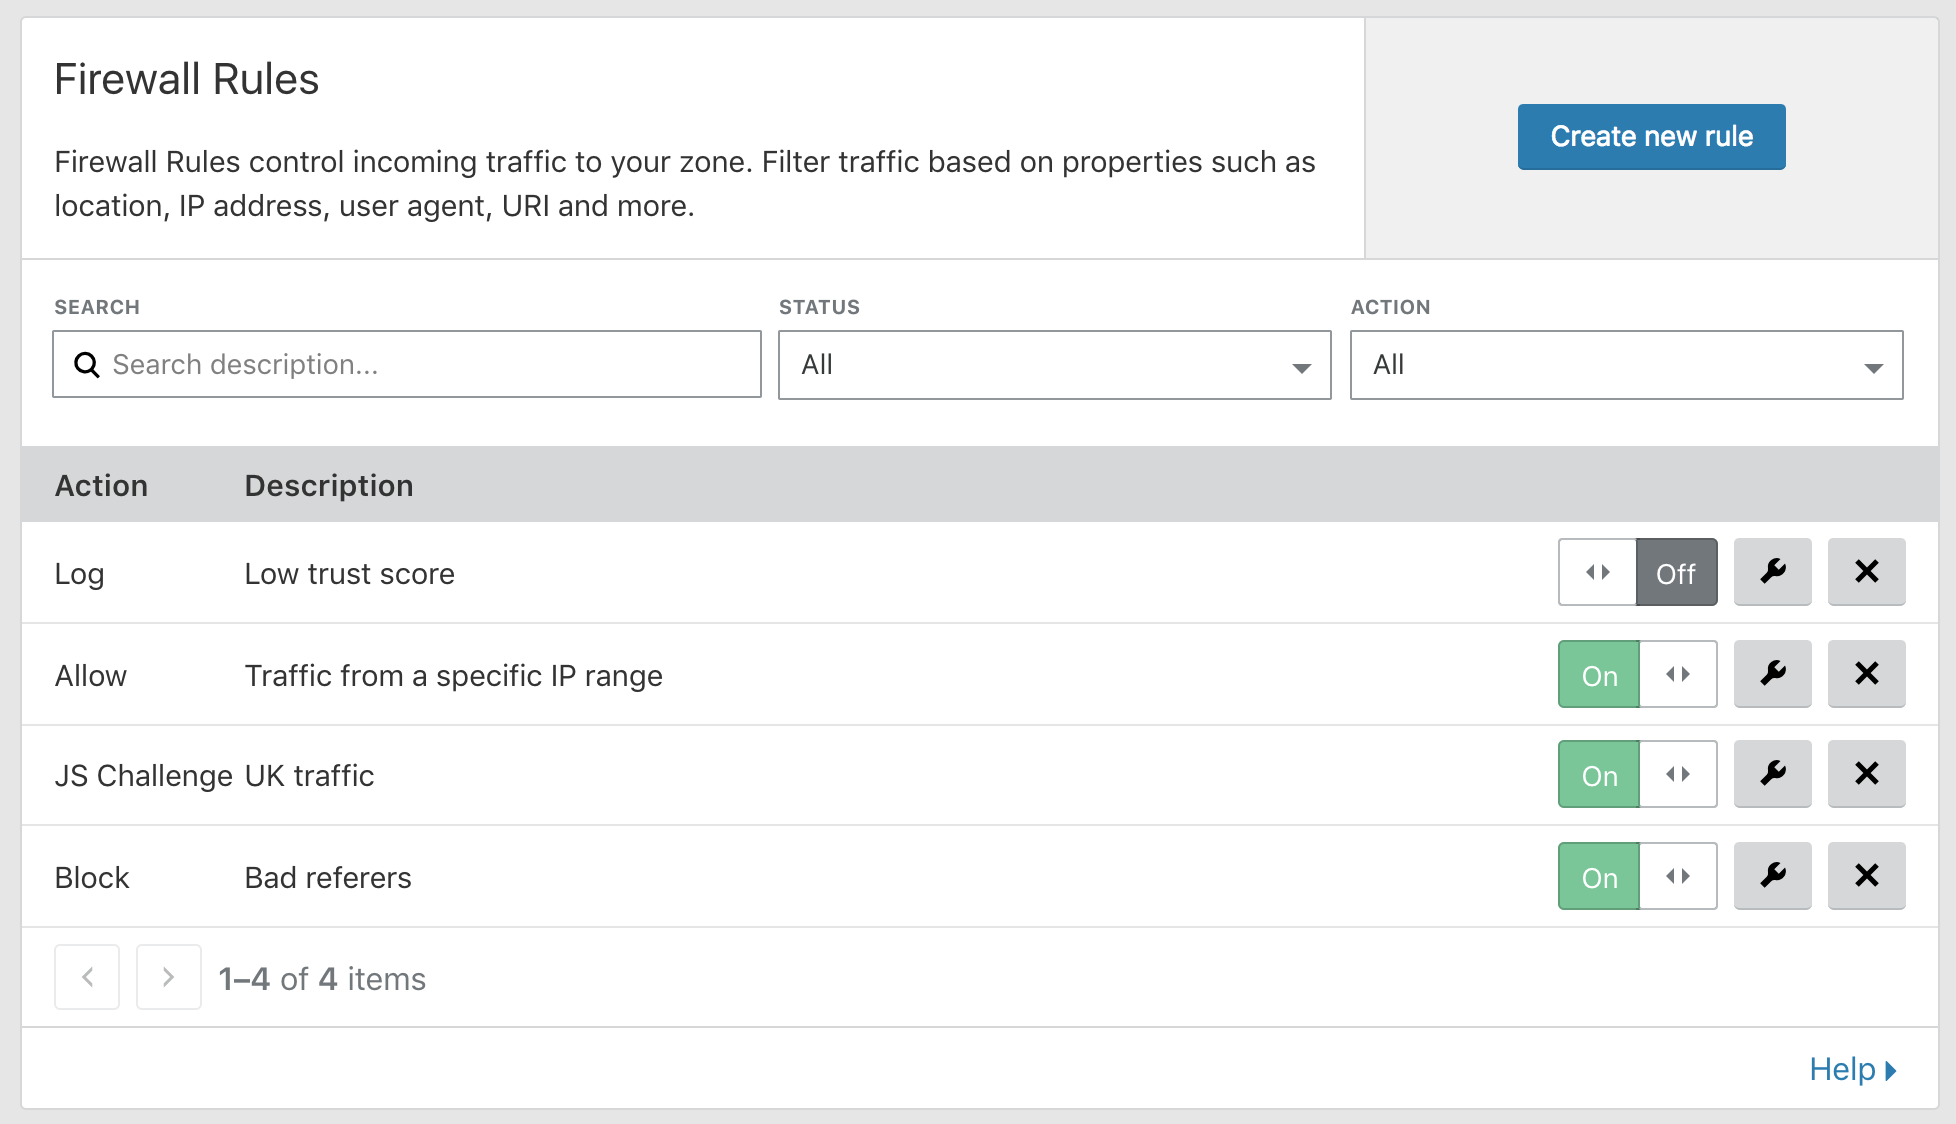
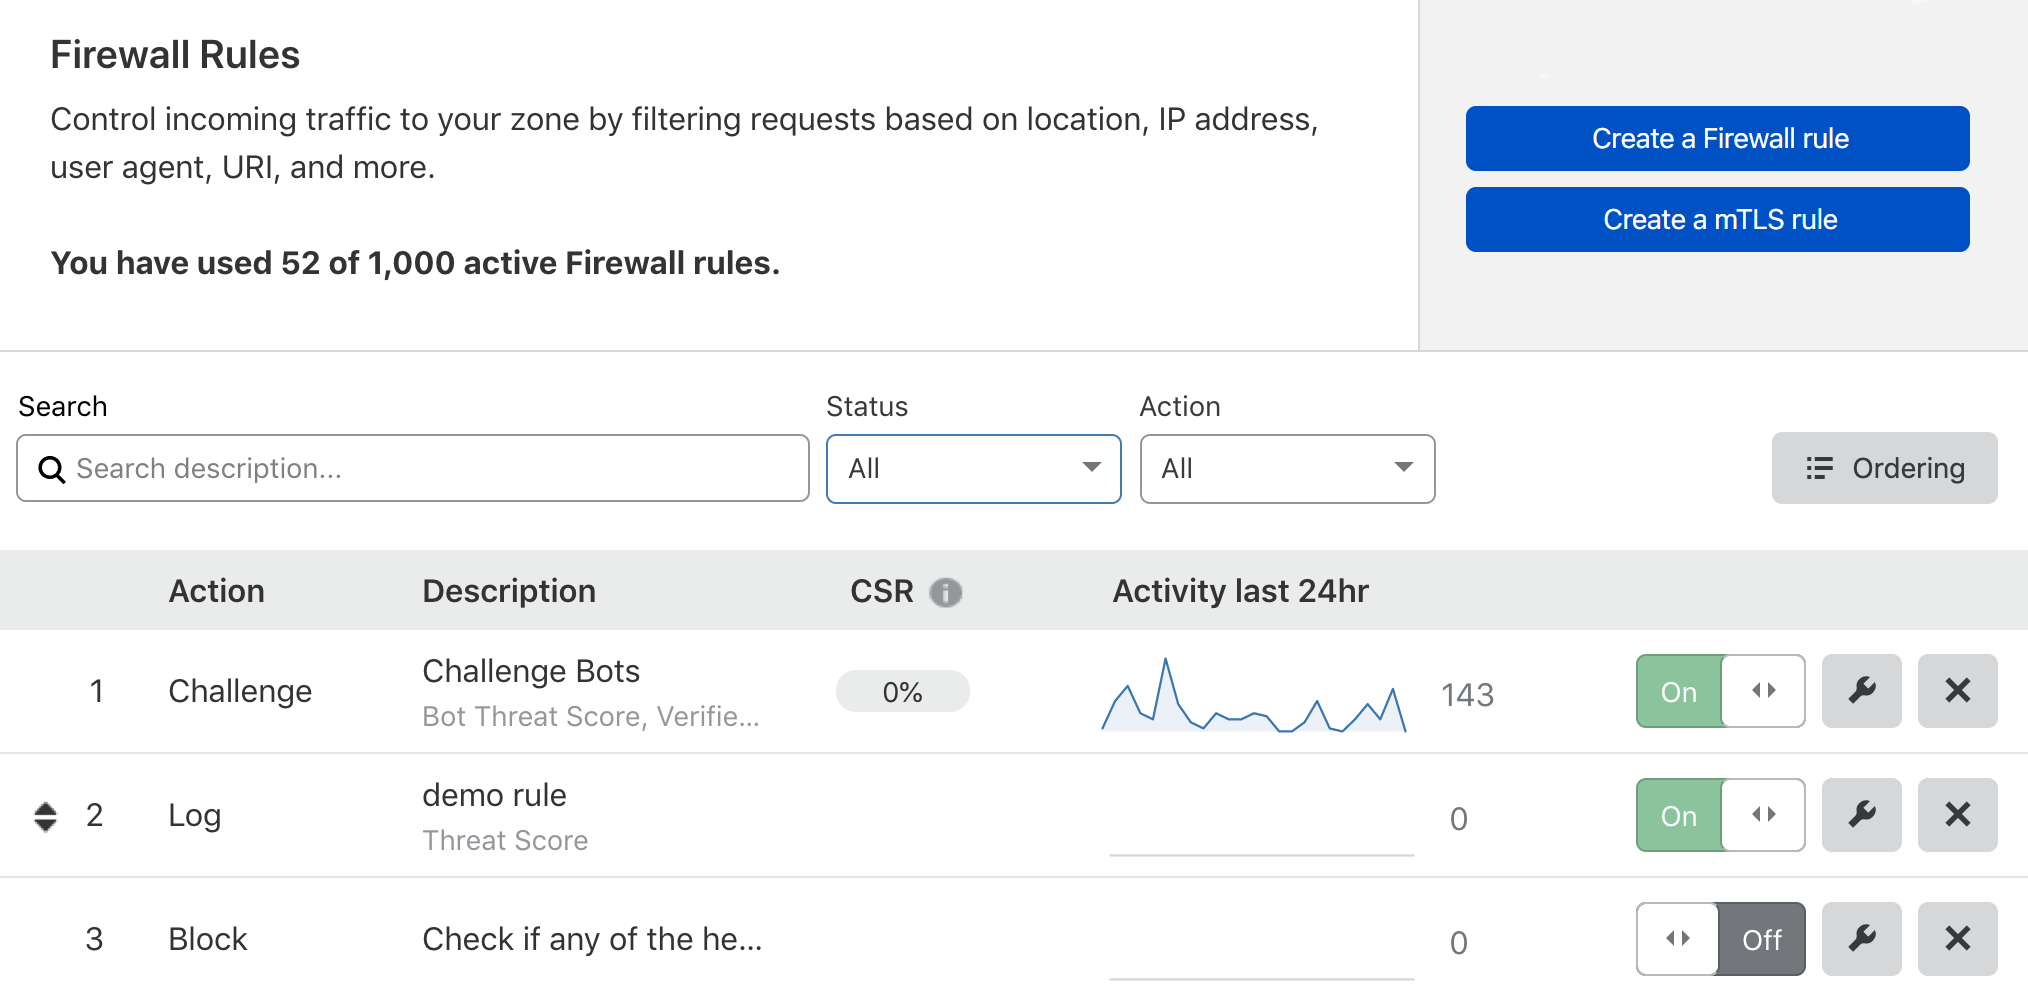
Add section on Challenge Solve Rate (CSR) (#1416)

diff --git a/products/firewall/src/content/cf-firewall-rules/index.md b/products/firewall/src/content/cf-firewall-rules/index.md
@@ -28,19 +28,36 @@ You can also manage Firewall Rules through Terraform. For more, see [_Getting St
 
 The **Rules List** gives you a snapshot of recent activity and allows you to manage firewall rules in a single convenient location (see image below).
 
-![Firewall Rules tab](../images/firewall-rules-introduction-1.png)
+![Firewall Rules tab](../images/cf-firewall-rules-panel.png)
+
+#### Challenge Solve Rate (CSR)
+
+The **Rules List** displays each rule's **CSR** (Challenge Solve Rate), which is the percentage of issued challenges that were solved. This metric applies to rules configured with _Challenge (Captcha)_ or _JS Challenge_ actions, and it is calculated as follows:
+
+<p><var>CSR</var> = <var>number of challenges solved</var> / <var>number of challenges issued</var></p>
+
+Hover over the CSR value to reveal the number of issued and solved CAPTCHA challenges:
+
+![Revealing the number of issued vs. solved CAPTCHA challenges](../images/firewall-rules-csr-hover.png)
+
+A low CSR value means that Cloudflare is issuing a low number of CAPTCHA challenges to actual humans, since these are the solved challenges.
+
+You should aim for a low Challenge Solve Rate. Review the CSR value of your CAPTCHA rules periodically and adjust them if necessary:
+
+* If the rate is higher than expected, for example regarding a Bot Management rule, consider relaxing the rule criteria so that you issue fewer challenges to human visitors.
+* If the rate is 0%, no CAPTCHA challenges are being solved. This means that you have no human visitors whose requests match the rule filter. Consider changing the rule action to _Block_.
 
 ### Expression Builder
 
 Both the **Create Firewall** and **Edit Firewall** panels include the visual **Expression Builder** (outlined below, in orange), which is an excellent tool to start with.
 
-![Expression Builder](../images/firewall-rules-introduction-2.png)
+![Expression Builder](../images/firewall-rules-intro-exp-builder.png)
 
 ### Expression Editor
 
 Advanced users will appreciate the **Expression Editor** (shown below), which trades the visual simplicity of the builder for the raw power of the [Cloudflare Firewall Rules language](https://developers.cloudflare.com/firewall/cf-firewall-language). The editor also supports advanced features, such as grouping symbols, for constructing highly sophisticated, targeted rules.
 
-![Expression Editor](../images/firewall-rules-introduction-3.png)
+![Expression Editor](../images/firewall-rules-intro-exp-editor.png)
 
 ### Firewall Rules APIs
 

diff --git a/products/firewall/src/content/known-issues-and-faq/index.md b/products/firewall/src/content/known-issues-and-faq/index.md
@@ -392,7 +392,7 @@ Your application can use these status codes to handle unexpected challenges.
 
 No. The `challengeFailed` and `jschallengeFailed` Firewall actions account for observed requests that, under special circumstances, did not pass a challenge. However, some failed challenges cannot be traced back to a Firewall rule. Additionally, the Firewall may not have a record of every request with a failed challenge.
 
-Therefore, consider these actions with caution. A reliable indicator is the CSR (Challenge Solve Rate) displayed in **Firewall Rules**, which is calculated as follows: `number of challenges solved / number of challenges issued`.
+Therefore, consider these actions with caution. A reliable indicator is the [CSR (Challenge Solve Rate)](/cf-firewall-rules#challenge-solve-rate-csr) displayed in **Firewall Rules**, which is calculated as follows: `number of challenges solved / number of challenges issued`.
 
 ## Why would I not see any failed challenges? Why is 'ChallengeIssued' not equal to 'ChallengeSolved' plus 'ChallengeFailed'?
 
